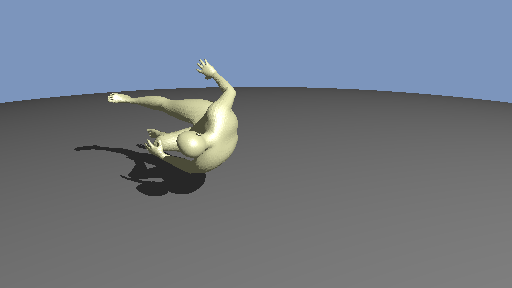
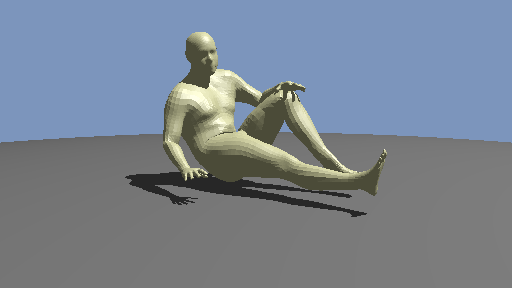
change camera position

Changed region(s): [[0.0, 0.0938, 1.0, 0.75]]

diff --git a/HumanShape.py b/HumanShape.py
@@ -13,7 +13,7 @@ new_file_name = "temp_humanshape.obj"
 # reformat_obj("humanshape.obj", new_file_name)
 
 vs_list = 0.001 * read_hs_obj_triangles(open("humanshape.obj"))
-vs_normal_list = read_hs_obj_normals(open("humanshape.obj"))
+# vs_normal_list = read_hs_obj_normals(open("humanshape.obj"))
 
 # vs_list = 0.001 * read_obj_triangles(open(new_file_name))
 # vs_list = 0.001 * read_obj_triangles(open('hs-test3000.obj'))
@@ -58,36 +58,36 @@ for tris in vs_list:
     #                              [new_p2_h[0,0], new_p2_h[1,0], new_p2_h[2,0]]]))
     new_vs_list.append(tris)
 
-new_vn_list = []
-for tris in vs_normal_list:
-    p_0 = tris[0]
-    p_0_h = np.array([[p_0[0]],[p_0[1]], [p_0[2]], [1]])
-    new_p0_h = t_z.dot(tranformation_matrix.dot(p_0_h))
-
-    p_1 = tris[1]
-    p_1_h = np.array([[p_1[0]], [p_1[1]], [p_1[2]], [1]])
-    new_p1_h = t_z.dot(tranformation_matrix.dot(p_1_h))
-
-    p_2 = tris[2]
-    p_2_h = np.array([[p_2[0]], [p_2[1]], [p_2[2]], [1]])
-    new_p2_h = t_z.dot(tranformation_matrix.dot(p_2_h))
-    # new_vn_list.append(np.array([[new_p0_h[0,0], new_p0_h[1,0], new_p0_h[2,0]],
-    #                              [new_p1_h[0,0], new_p1_h[1,0], new_p1_h[2,0]],
-    #                              [new_p2_h[0,0], new_p2_h[1,0], new_p2_h[2,0]]]))
-    new_vn_list.append(tris)
+# new_vn_list = []
+# for tris in vs_normal_list:
+#     p_0 = tris[0]
+#     p_0_h = np.array([[p_0[0]],[p_0[1]], [p_0[2]], [1]])
+#     new_p0_h = t_z.dot(tranformation_matrix.dot(p_0_h))
+#
+#     p_1 = tris[1]
+#     p_1_h = np.array([[p_1[0]], [p_1[1]], [p_1[2]], [1]])
+#     new_p1_h = t_z.dot(tranformation_matrix.dot(p_1_h))
+#
+#     p_2 = tris[2]
+#     p_2_h = np.array([[p_2[0]], [p_2[1]], [p_2[2]], [1]])
+#     new_p2_h = t_z.dot(tranformation_matrix.dot(p_2_h))
+#     # new_vn_list.append(np.array([[new_p0_h[0,0], new_p0_h[1,0], new_p0_h[2,0]],
+#     #                              [new_p1_h[0,0], new_p1_h[1,0], new_p1_h[2,0]],
+#     #                              [new_p2_h[0,0], new_p2_h[1,0], new_p2_h[2,0]]]))
+#     new_vn_list.append(tris)
 
 
 tri_list = []
 
 for i in range(len(new_vs_list)):
-    tri_list.append(Triangle(new_vs_list[i],tan,new_vn_list[i],True))
+    tri_list.append(Triangle(new_vs_list[i],tan))
 
 
 
 scene = Scene(
     [
     # Make a big sphere for the floor
-    Sphere(vec([0,-40,0]), 39.5, gray),
+    Sphere(vec([0,0,-40]), 40.75, gray),
 ] +tri_list
 #               [
 #     # Make triangle objects from the vertex coordinates
@@ -96,11 +96,11 @@ scene = Scene(
 )
 
 lights = [
-    PointLight(vec([12,10,7]), vec([300,300,300])),
+    PointLight(vec([-7.5,-2,17]), vec([300,300,300])),
     AmbientLight(0.1),
 ]
 
-camera = Camera(vec([3,1.2,5]), target=vec([0,-0.4,0]), vfov=25, aspect=16/9)
+camera = Camera(vec([-2.1,2.8,1.5]), target=vec([0,0,1]),up=vec([0,0,2]), vfov=25, aspect=16/9)
 
 render(camera, scene, lights)
 

diff --git a/ray.py b/ray.py
@@ -187,15 +187,14 @@ class Triangle:
         if beta > 0 and gamma > 0 and beta + gamma < 1:
             if ray.start < t < ray.end:
                 intersection_pos = p + d * t
-                hit_norm = vec([0,0,0])
-                if self.normal_correction:
-                    a_norm = normalize_vec3(vec(self.vn[0]))
-                    b_norm = normalize_vec3(vec(self.vn[1]))
-                    c_norm = normalize_vec3(vec(self.vn[2]))
-                    hit_norm = normalize_vec3(a_norm+(b_norm-a_norm)*beta+(c_norm-a_norm)*gamma)
 
-                else:
-                    hit_norm = normalize_vec3(np.cross(c - a, b - a))
+                hit_norm = normalize_vec3(np.cross(c - a, b - a))
+                # if self.normal_correction:
+                #     a_norm = normalize_vec3(vec(self.vn[0]))
+                #     b_norm = normalize_vec3(vec(self.vn[1]))
+                #     c_norm = normalize_vec3(vec(self.vn[2]))
+                #     hit_norm = normalize_vec3(a_norm+(b_norm-a_norm)*beta+(c_norm-a_norm)*gamma+hit_norm)
+
                 return Hit(t, intersection_pos, hit_norm, self.material)
 
         return no_hit
@@ -624,7 +623,7 @@ def render_image(camera, scene, lights, nx, ny):
             print("Arriving at: " + str(i) +" row")
         for j in range(nx):
             # [x_on_plane,y_on_plane] = texture_to_image_plane(nx,ny,j,i)
-            ray = camera.generate_ray(vec([j / nx, i / ny]))
+            ray = camera.generate_ray(vec([j / (nx-1), i / (ny-1)]))
             intersection = scene.intersect(ray)  # this will return a Hit object
             if intersection != no_hit:
                 material_at_pixel = intersection.material
